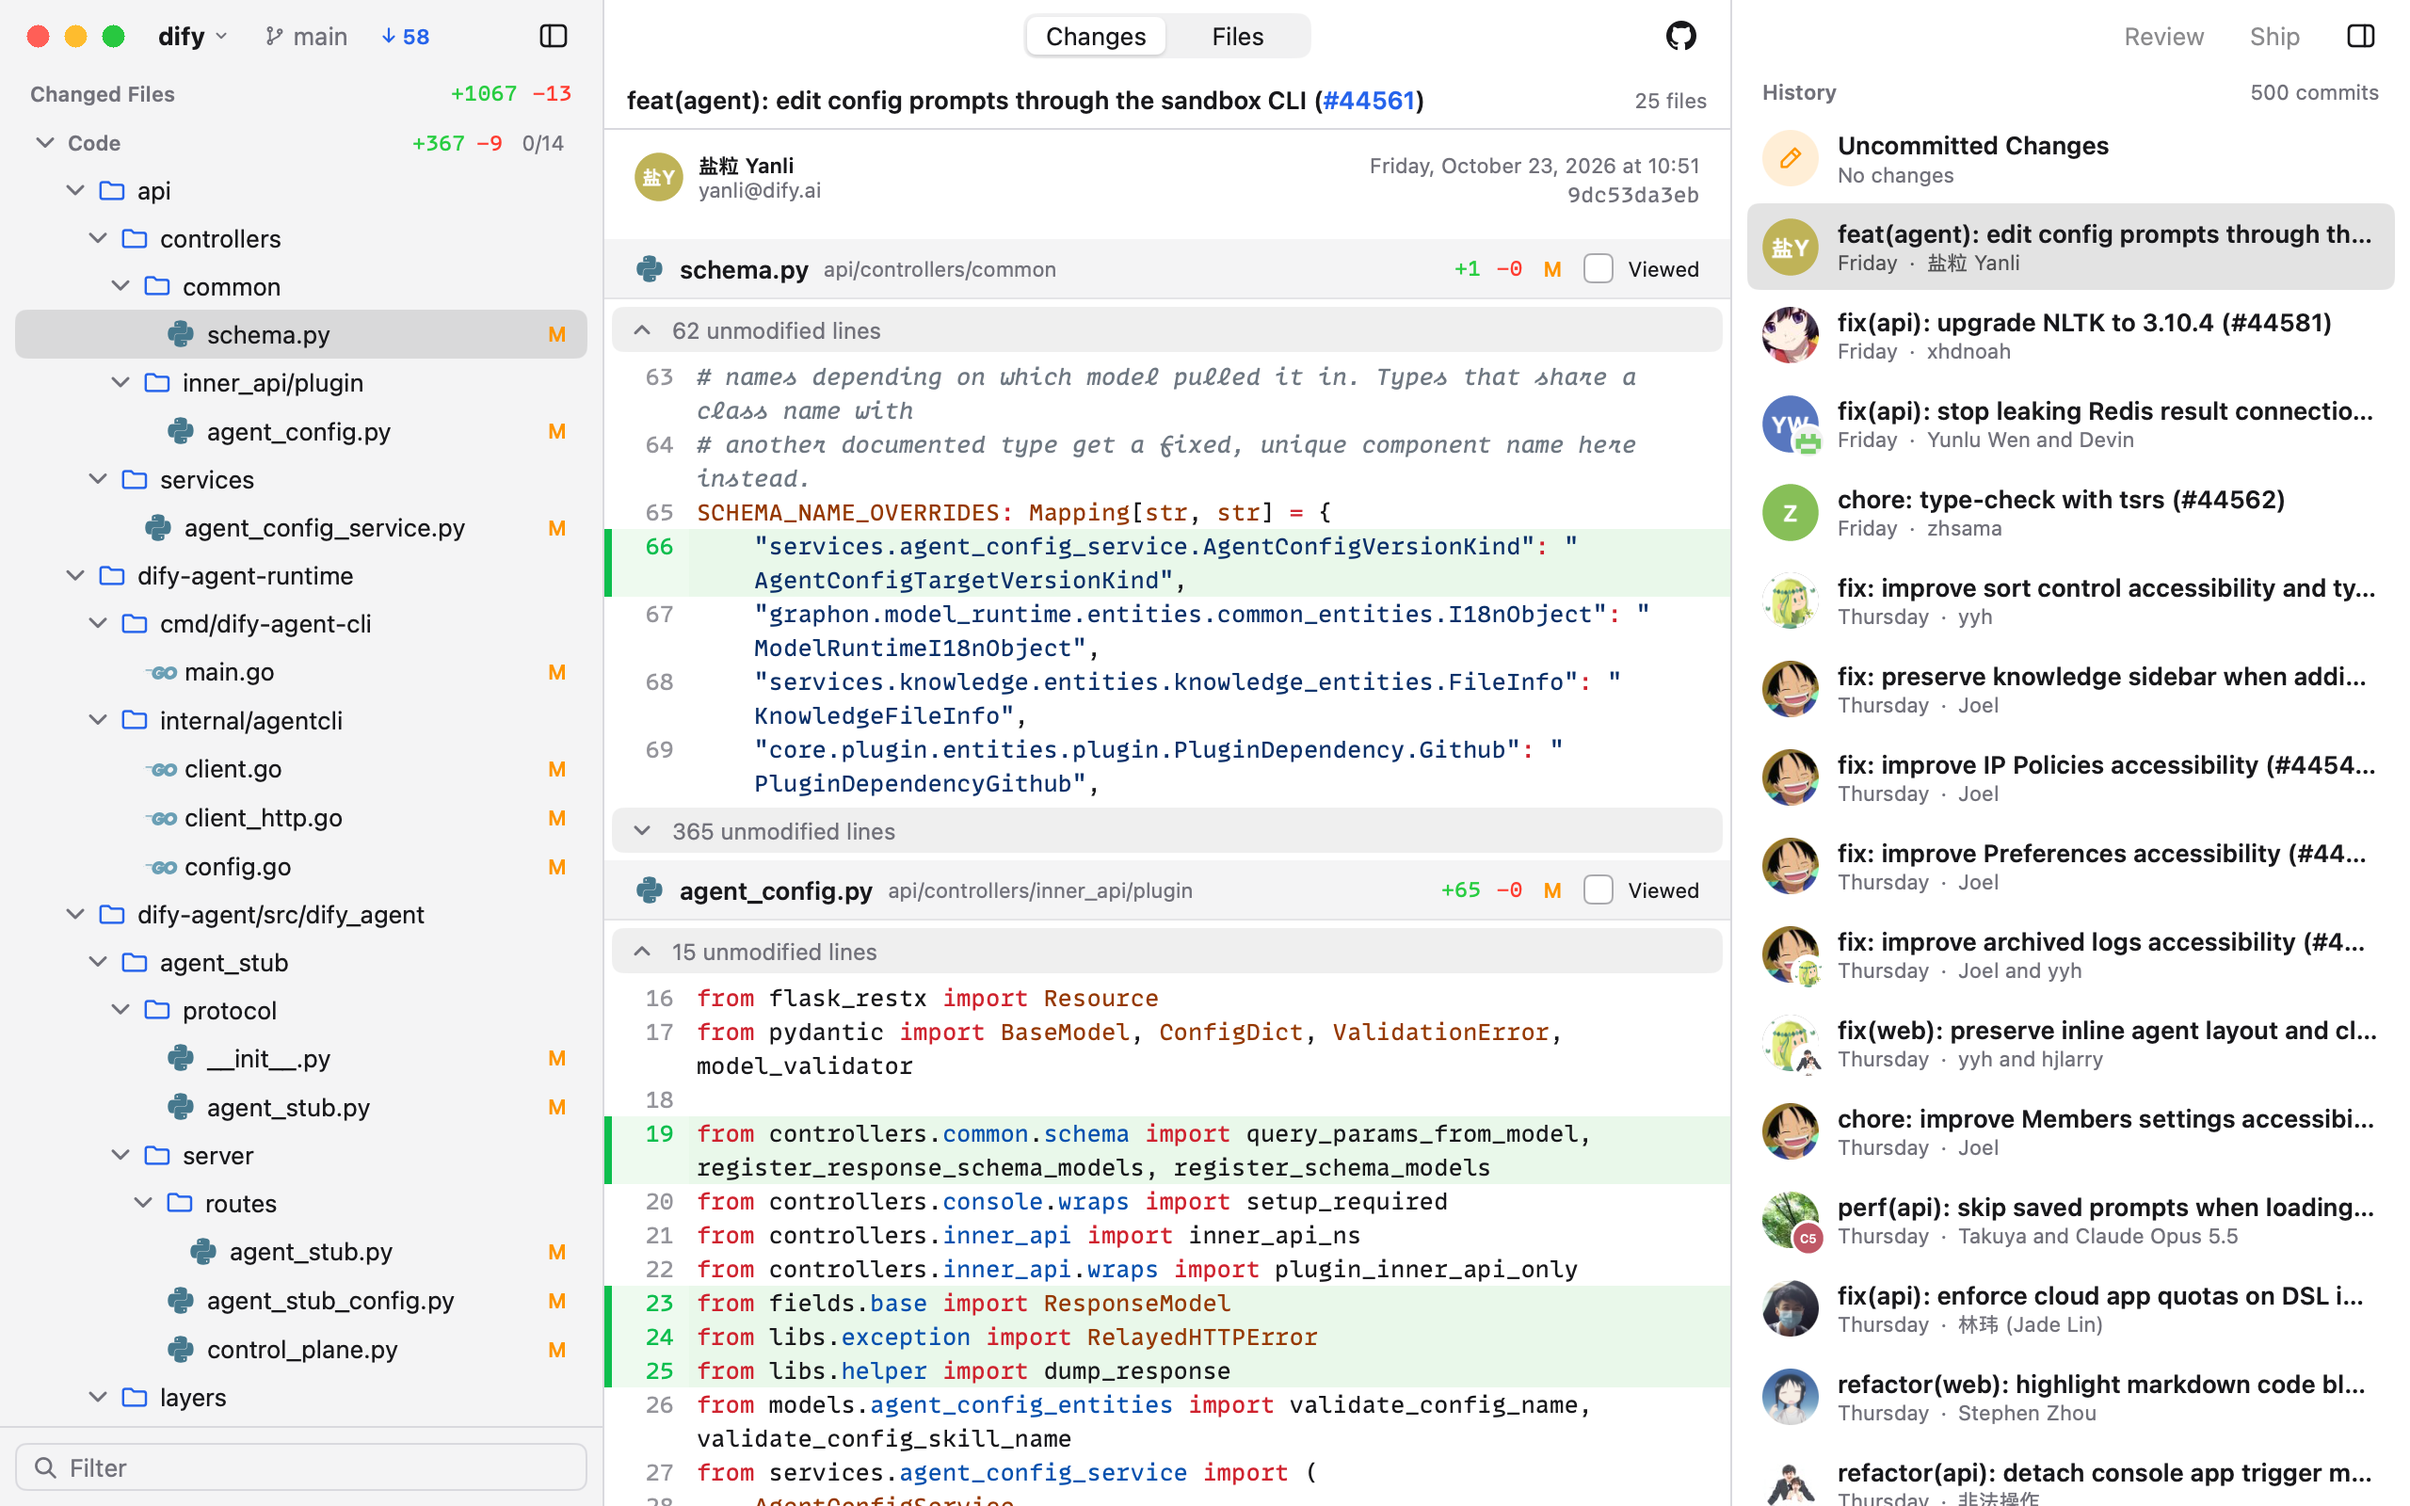
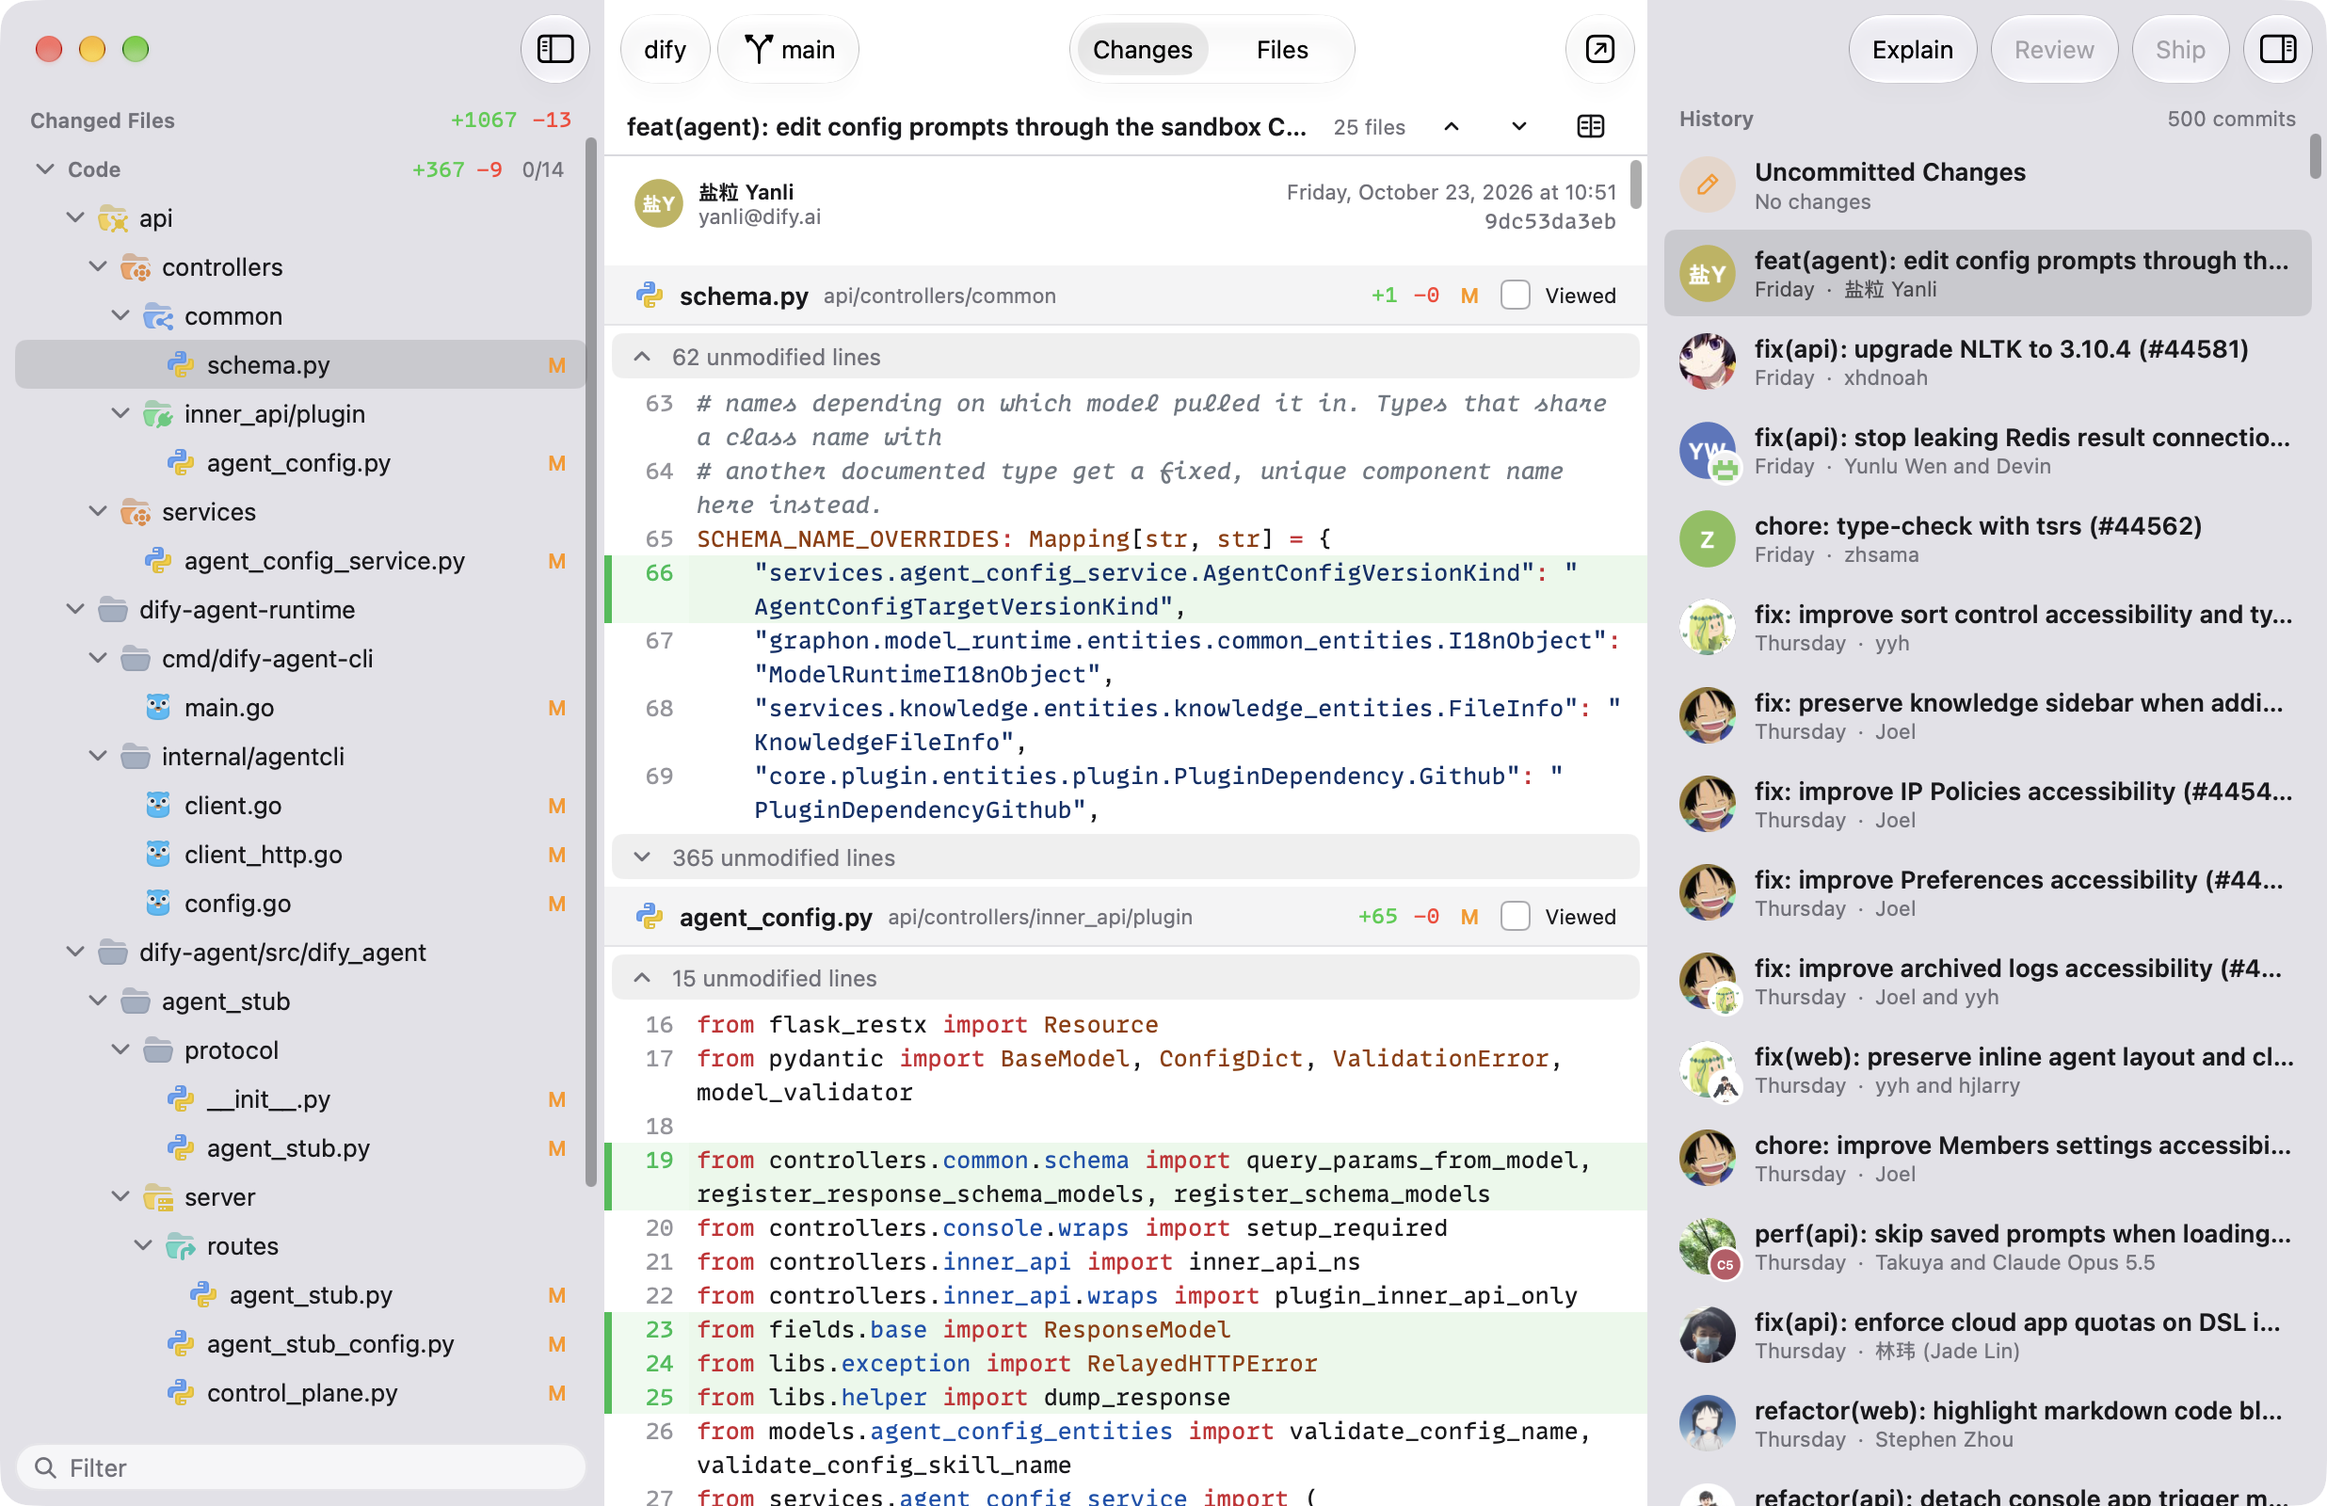
Refresh the README screenshots from the app's window
- Show AppKit's toolbar and the sidebars' color, as the app has them.
- Tell how they are captured, from the window, in place of TestSnapshot.

diff --git a/README.md b/README.md
@@ -162,14 +162,10 @@ go tool mygo build
 CGO_ENABLED=0 go test ./...
 ```
 
-The screenshots above are drawn by `TestSnapshot` over a clone of [Dify](https://github.com/langgenius/dify) with `main` at commit `9dc53da` ([#44561](https://github.com/langgenius/dify/pull/44561)), whose `origin` is the GitHub repository:
+The screenshots above are of Peek's window, 1236 by 800 points at 2×, over a clone of [Dify](https://github.com/langgenius/dify) with `main` at commit `9dc53da` ([#44561](https://github.com/langgenius/dify/pull/44561)), whose `origin` is the GitHub repository: that commit chosen in Changes, and `dify-agent-runtime/internal/agentcli/config.go` in Files, each in the light and the dark appearance, captured without the window's shadow:
 
 ```bash
-PEEK_REPO=path/to/dify PEEK_OUT=$PWD/docs/changes PEEK_COMMIT=1 go test ./internal/app -run 'Snapshot$'
-```
-
-```bash
-PEEK_REPO=path/to/dify PEEK_OUT=$PWD/docs/files PEEK_MODE=files PEEK_COMMIT=1 PEEK_FILE=dify-agent-runtime/internal/agentcli/config.go go test ./internal/app -run 'Snapshot$'
+screencapture -o -l <window number> docs/changes-light.png
 ```
 
 ## License
